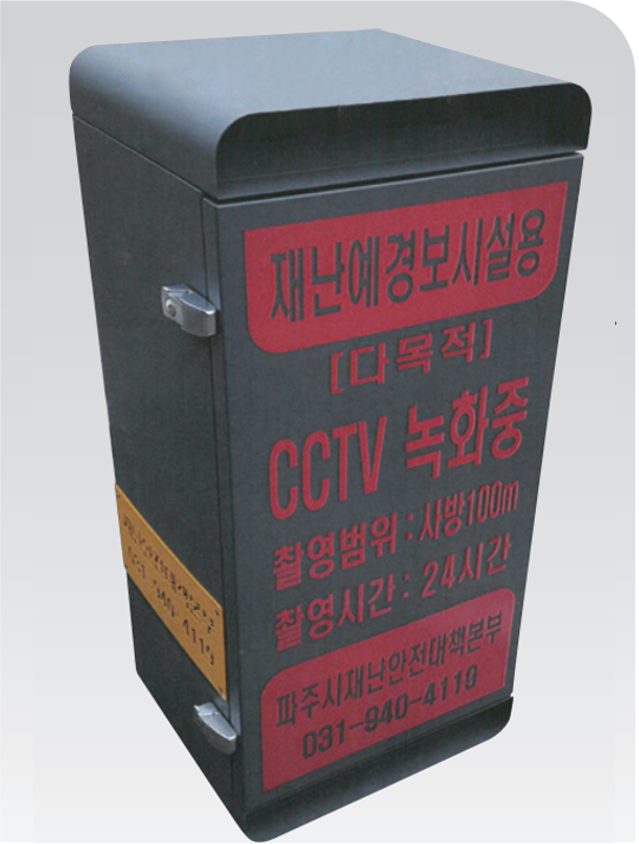
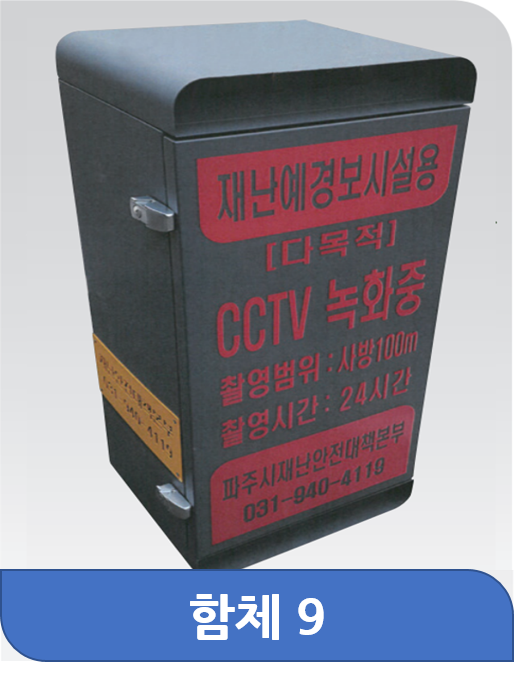
제품소개 사진교체완료

diff --git a/BKTech/src/main/resources/templates/portfolio.html b/BKTech/src/main/resources/templates/portfolio.html
@@ -351,8 +351,7 @@
             <div class="portfolio-item">
               <img src="assets/img/hamche/hamche1.png" class="img-fluid" alt="">
               <div class="portfolio-info">
-                <h3><a href="assets/img/hamche/hamche1.png" data-gall="portfolioGallery" class="venobox" title="Hamche 1">함체 1</a></h3>
-                <a href="assets/img/hamche/hamche1.png" data-gall="portfolioGallery" class="venobox" title="Hamche 1"><i class="icofont-plus"></i></a>
+                <h3><a href="assets/img/hamche/hamche1-1.png" data-gall="portfolioGallery" class="venobox" title="Hamche 1">함체 1<br><i class="icofont-plus"></i></a></h3>
               </div>
             </div>
           </div>
@@ -361,8 +360,7 @@
             <div class="portfolio-item">
               <img src="assets/img/hamche/hamche2.png" class="img-fluid" alt="">
               <div class="portfolio-info">
-                <h3><a href="assets/img/hamche/hamche2.png" data-gall="portfolioGallery" class="venobox" title="Hamche 2">함체 2</a></h3>
-                <a href="assets/img/hamche/hamche2.png" data-gall="portfolioGallery" class="venobox" title="Hamche 2"><i class="icofont-plus"></i></a>
+                <h3><a href="assets/img/hamche/hamche2-1.png" data-gall="portfolioGallery" class="venobox" title="Hamche 2">함체 2<br><i class="icofont-plus"></i></a></h3>
               </div>
             </div>
           </div>
@@ -371,8 +369,7 @@
             <div class="portfolio-item">
               <img src="assets/img/hamche/hamche3.png" class="img-fluid" alt="">
               <div class="portfolio-info">
-                <h3><a href="assets/img/hamche/hamche3.png" data-gall="portfolioGallery" class="venobox" title="Hamche 3">함체 3</a></h3>
-                <a href="assets/img/hamche/hamche3.png" data-gall="portfolioGallery" class="venobox" title="Hamche 3"><i class="icofont-plus"></i></a>
+                <h3><a href="assets/img/hamche/hamche3-1.png" data-gall="portfolioGallery" class="venobox" title="Hamche 3">함체 3<br><i class="icofont-plus"></i></a></h3>
               </div>
             </div>
           </div>
@@ -381,8 +378,7 @@
             <div class="portfolio-item">
               <img src="assets/img/hamche/hamche4.png" class="img-fluid" alt="">
               <div class="portfolio-info">
-                <h3><a href="assets/img/hamche/hamche4.png" data-gall="portfolioGallery" class="venobox" title="Hamche 4">함체 4</a></h3>
-                <a href="assets/img/hamche/hamche4.png" data-gall="portfolioGallery" class="venobox" title="Hamche 4"><i class="icofont-plus"></i></a>
+                <h3><a href="assets/img/hamche/hamche4-1.png" data-gall="portfolioGallery" class="venobox" title="Hamche 4">함체 4<br><i class="icofont-plus"></i></a></h3>
               </div>
             </div>
           </div>
@@ -391,8 +387,7 @@
             <div class="portfolio-item">
               <img src="assets/img/hamche/hamche5.png" class="img-fluid" alt="">
               <div class="portfolio-info">
-                <h3><a href="assets/img/hamche/hamche5.png" data-gall="portfolioGallery" class="venobox" title="Hamche 5">함체 5</a></h3>
-                <a href="assets/img/hamche/hamche5.png" data-gall="portfolioGallery" class="venobox" title="Hamche 5"><i class="icofont-plus"></i></a>
+                <h3><a href="assets/img/hamche/hamche5-1.png" data-gall="portfolioGallery" class="venobox" title="Hamche 5">함체 5<br><i class="icofont-plus"></i></a></h3>
               </div>
             </div>
           </div>
@@ -401,8 +396,7 @@
             <div class="portfolio-item">
               <img src="assets/img/hamche/hamche6.png" class="img-fluid" alt="">
               <div class="portfolio-info">
-                <h3><a href="assets/img/hamche/hamche6.png" data-gall="portfolioGallery" class="venobox" title="Hamche 6">함체 6</a></h3>
-                <a href="assets/img/hamche/hamche6.png" data-gall="portfolioGallery" class="venobox" title="Hamche 6"><i class="icofont-plus"></i></a>
+                <h3><a href="assets/img/hamche/hamche6-1.png" data-gall="portfolioGallery" class="venobox" title="Hamche 6">함체 6<br><i class="icofont-plus"></i></a></h3>
               </div>
             </div>
           </div>
@@ -411,8 +405,7 @@
             <div class="portfolio-item">
               <img src="assets/img/hamche/hamche7.png" class="img-fluid" alt="">
               <div class="portfolio-info">
-                <h3><a href="assets/img/hamche/hamche7.png" data-gall="portfolioGallery" class="venobox" title="Hamche 7">함체 7</a></h3>
-                <a href="assets/img/hamche/hamche7.png" data-gall="portfolioGallery" class="venobox" title="Hamche 7"><i class="icofont-plus"></i></a>
+                <h3><a href="assets/img/hamche/hamche7-1.png" data-gall="portfolioGallery" class="venobox" title="Hamche 7">함체 7<br><i class="icofont-plus"></i></a></h3>
               </div>
             </div>
           </div>
@@ -421,8 +414,7 @@
             <div class="portfolio-item">
               <img src="assets/img/hamche/hamche8.png" class="img-fluid" alt="">
               <div class="portfolio-info">
-                <h3><a href="assets/img/hamche/hamche8.png" data-gall="portfolioGallery" class="venobox" title="Hamche 8">함체 8</a></h3>
-                <a href="assets/img/hamche/hamche8.png" data-gall="portfolioGallery" class="venobox" title="Hamche 8"><i class="icofont-plus"></i></a>
+                <h3><a href="assets/img/hamche/hamche8-1.png" data-gall="portfolioGallery" class="venobox" title="Hamche 8">함체 8<br><i class="icofont-plus"></i></a></h3>
               </div>
             </div>
           </div>
@@ -431,8 +423,7 @@
             <div class="portfolio-item">
               <img src="assets/img/hamche/hamche9.png" class="img-fluid" alt="">
               <div class="portfolio-info">
-                <h3><a href="assets/img/hamche/hamche9.png" data-gall="portfolioGallery" class="venobox" title="Hamche 9">함체 9</a></h3>
-                <a href="assets/img/hamche/hamche9.png" data-gall="portfolioGallery" class="venobox" title="Hamche 9"><i class="icofont-plus"></i></a>
+                <h3><a href="assets/img/hamche/hamche9-1.png" data-gall="portfolioGallery" class="venobox" title="Hamche 9">함체 9<br></a></h3>
               </div>
             </div>
           </div>
@@ -441,8 +432,7 @@
             <div class="portfolio-item">
               <img src="assets/img/hamche/hamche10.png" class="img-fluid" alt="">
               <div class="portfolio-info">
-                <h3><a href="assets/img/hamche/hamche10.png" data-gall="portfolioGallery" class="venobox" title="Hamche 10">함체 10</a></h3>
-                <a href="assets/img/hamche/hamche10.png" data-gall="portfolioGallery" class="venobox" title="Hamche 10"><i class="icofont-plus"></i></a>
+                <h3><a href="assets/img/hamche/hamche10-1.png" data-gall="portfolioGallery" class="venobox" title="Hamche 10">함체 10<br><i class="icofont-plus"></i></a></h3>
               </div>
             </div>
           </div>
@@ -451,8 +441,7 @@
             <div class="portfolio-item">
               <img src="assets/img/hamche/hamche11.png" class="img-fluid" alt="">
               <div class="portfolio-info">
-                <h3><a href="assets/img/hamche/hamche11.png" data-gall="portfolioGallery" class="venobox" title="Hamche 11">함체 11</a></h3>
-                <a href="assets/img/hamche/hamche11.png" data-gall="portfolioGallery" class="venobox" title="Hamche 11"><i class="icofont-plus"></i></a>
+                <h3><a href="assets/img/hamche/hamche11-1.png" data-gall="portfolioGallery" class="venobox" title="Hamche 11">함체 11<br><i class="icofont-plus"></i></a></h3>
               </div>
             </div>
           </div>
@@ -461,8 +450,7 @@
             <div class="portfolio-item">
               <img src="assets/img/hamche/hamche12.png" class="img-fluid" alt="">
               <div class="portfolio-info">
-                <h3><a href="assets/img/hamche/hamche12.png" data-gall="portfolioGallery" class="venobox" title="Hamche 1">함체 12</a></h3>
-                <a href="assets/img/hamche/hamche12.png" data-gall="portfolioGallery" class="venobox" title="Hamche 1"><i class="icofont-plus"></i></a>
+                <h3><a href="assets/img/hamche/hamche12-1.png" data-gall="portfolioGallery" class="venobox" title="Hamche 1">함체 12<br><i class="icofont-plus"></i></a></h3>
               </div>
             </div>
           </div>
@@ -471,8 +459,7 @@
             <div class="portfolio-item">
               <img src="assets/img/hamche/hamche13.png" class="img-fluid" alt="">
               <div class="portfolio-info">
-                <h3><a href="assets/img/hamche/hamche13.png" data-gall="portfolioGallery" class="venobox" title="Hamche 13">함체 13</a></h3>
-                <a href="assets/img/hamche/hamche13.png" data-gall="portfolioGallery" class="venobox" title="Hamche 13"><i class="icofont-plus"></i></a>
+                <h3><a href="assets/img/hamche/hamche13-1.png" data-gall="portfolioGallery" class="venobox" title="Hamche 13">함체 13<br><i class="icofont-plus"></i></a></h3>
               </div>
             </div>
           </div>
